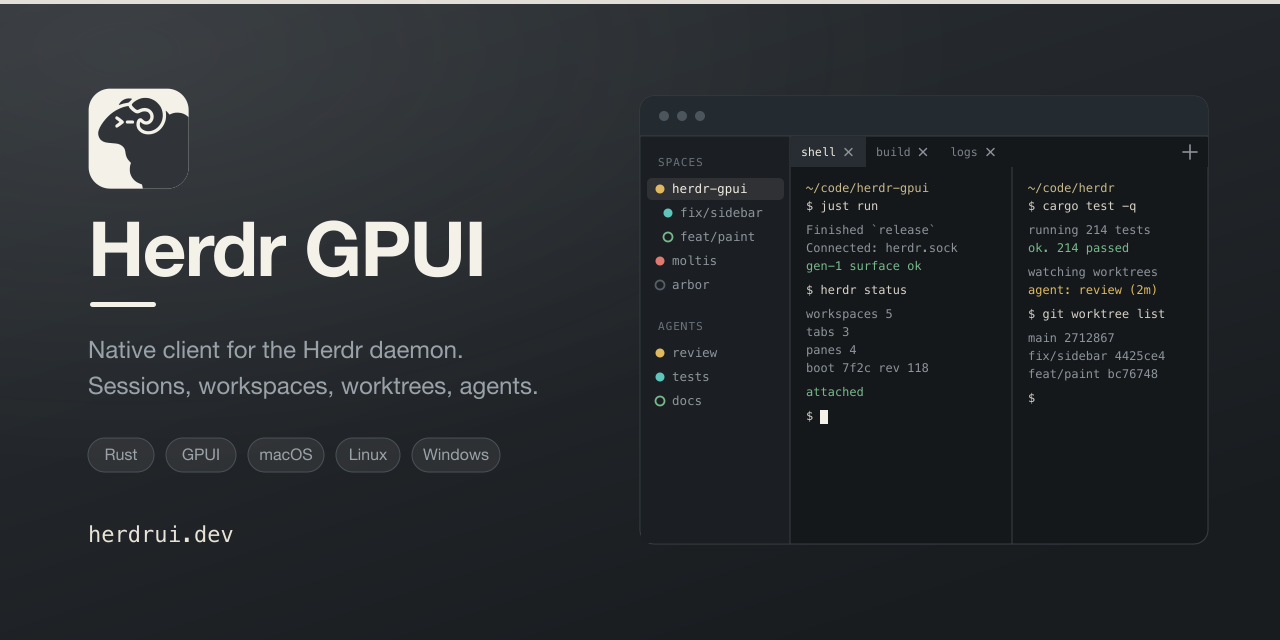
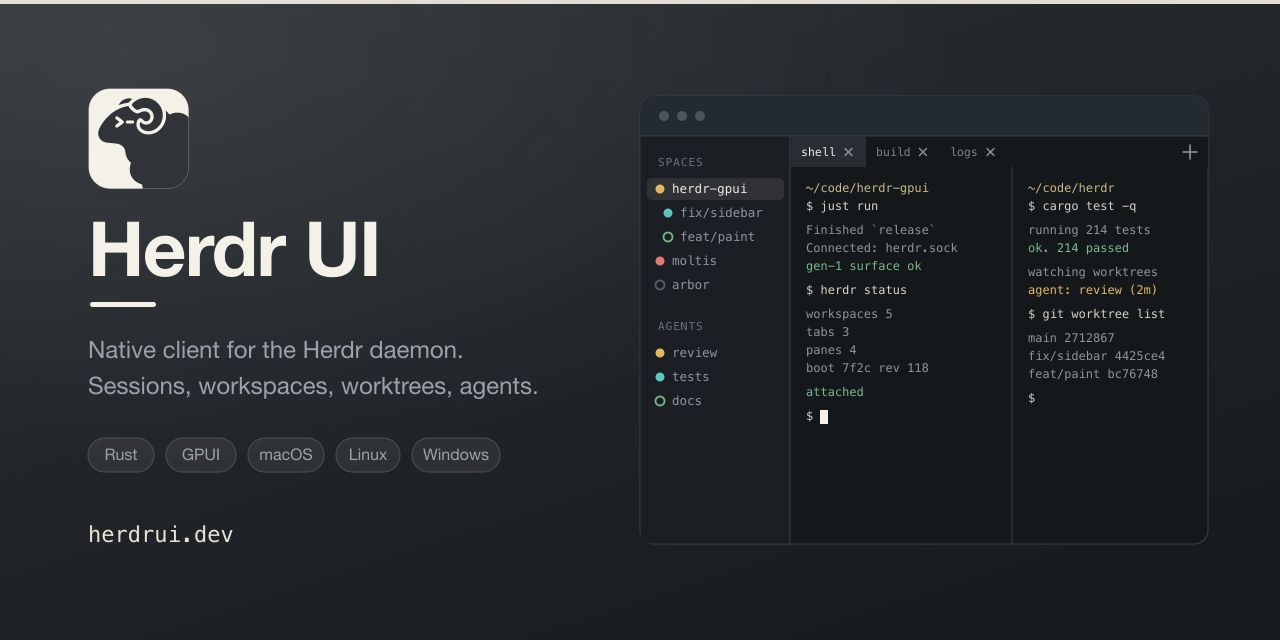
feat(site): rename the website and social previews to Herdr UI
The page title, Open Graph and X card tags, image alt text, headings,
body copy and footer now use Herdr UI. The three social preview SVGs
carry the new name and their PNGs are re-rendered at 1280x640 with
rsvg-convert; the dark one is copied to site/assets for the cards.

Changed region(s): [[0.2188, 0.3438, 0.375, 0.4375]]

diff --git a/site/index.html b/site/index.html
@@ -3,26 +3,26 @@
 <head>
 <meta charset="utf-8">
 <meta name="viewport" content="width=device-width, initial-scale=1">
-<title>Herdr GPUI: a native window for the Herdr daemon</title>
-<meta name="description" content="Herdr GPUI is a native client for the Herdr daemon you already run. Same daemon, same sessions: the window adds dispatch from issues, side-by-side review, checkpoints, Teleport and a Devices overview.">
+<title>Herdr UI: a native window for the Herdr daemon</title>
+<meta name="description" content="Herdr UI is a native client for the Herdr daemon you already run. Same daemon, same sessions: the window adds dispatch from issues, side-by-side review, checkpoints, Teleport and a Devices overview.">
 <link rel="canonical" href="https://herdrui.dev/">
 <link rel="icon" type="image/png" href="assets/herdr-ui-icon-badge.png">
 <meta name="theme-color" content="#17181b">
 <meta property="og:type" content="website">
-<meta property="og:title" content="Herdr GPUI: a native window for the Herdr daemon">
+<meta property="og:title" content="Herdr UI: a native window for the Herdr daemon">
 <meta property="og:description" content="Herdr's TUI is great. Here's what a window adds.">
 <meta property="og:url" content="https://herdrui.dev/">
-<meta property="og:site_name" content="Herdr GPUI">
+<meta property="og:site_name" content="Herdr UI">
 <meta property="og:image" content="https://herdrui.dev/assets/social-preview-dark.png">
 <meta property="og:image:type" content="image/png">
 <meta property="og:image:width" content="1280">
 <meta property="og:image:height" content="640">
-<meta property="og:image:alt" content="Herdr GPUI: native client for the Herdr daemon on macOS, Linux and Windows, beside a window with a workspace sidebar and terminal panes.">
+<meta property="og:image:alt" content="Herdr UI: native client for the Herdr daemon on macOS, Linux and Windows, beside a window with a workspace sidebar and terminal panes.">
 <meta name="twitter:card" content="summary_large_image">
-<meta name="twitter:title" content="Herdr GPUI: a native window for the Herdr daemon">
+<meta name="twitter:title" content="Herdr UI: a native window for the Herdr daemon">
 <meta name="twitter:description" content="Herdr's TUI is great. Here's what a window adds.">
 <meta name="twitter:image" content="https://herdrui.dev/assets/social-preview-dark.png">
-<meta name="twitter:image:alt" content="Herdr GPUI: native client for the Herdr daemon on macOS, Linux and Windows, beside a window with a workspace sidebar and terminal panes.">
+<meta name="twitter:image:alt" content="Herdr UI: native client for the Herdr daemon on macOS, Linux and Windows, beside a window with a workspace sidebar and terminal panes.">
 <link rel="stylesheet" href="assets/kit.css">
 <link rel="stylesheet" href="assets/site.css">
 <script src="assets/kit.js"></script>
@@ -31,7 +31,7 @@
 
 <div class="wrap">
   <nav>
-    <a class="brand" href="./"><img src="assets/herdr-ui-icon-badge.png" alt="">Herdr GPUI</a>
+    <a class="brand" href="./"><img src="assets/herdr-ui-icon-badge.png" alt="">Herdr UI</a>
     <a class="sec" href="#compare">Compare</a><a class="sec" href="#film" data-film-link hidden>Film</a><a class="sec" href="#shots" data-shots-link hidden>Screenshots</a><a class="sec" href="#install">Install</a>
     <a class="gh" href="https://github.com/penso/herdr-gpui"><svg class="mark" viewBox="0 0 24 24" aria-hidden="true"><path d="M12 0C5.37 0 0 5.37 0 12c0 5.31 3.435 9.795 8.205 11.385.6.105.825-.255.825-.57 0-.285-.015-1.23-.015-2.235-3.015.555-3.795-.735-4.035-1.41-.135-.345-.72-1.41-1.23-1.695-.42-.225-1.02-.78-.015-.795.945-.015 1.62.87 1.845 1.23 1.08 1.815 2.805 1.305 3.495.99.105-.78.42-1.305.765-1.605-2.67-.3-5.46-1.335-5.46-5.925 0-1.305.465-2.385 1.23-3.225-.12-.3-.54-1.53.12-3.18 0 0 1.005-.315 3.3 1.23.96-.27 1.98-.405 3-.405s2.04.135 3 .405c2.295-1.56 3.3-1.23 3.3-1.23.66 1.65.24 2.88.12 3.18.765.84 1.23 1.905 1.23 3.225 0 4.605-2.805 5.625-5.475 5.925.435.375.81 1.095.81 2.22 0 1.605-.015 2.895-.015 3.3 0 .315.225.69.825.57A12.02 12.02 0 0 0 24 12c0-6.63-5.37-12-12-12z"/></svg>GitHub<span class="stars" id="stars" hidden><svg viewBox="0 0 24 24" aria-hidden="true"><polygon points="12 2 15.09 8.26 22 9.27 17 14.14 18.18 21.02 12 17.77 5.82 21.02 7 14.14 2 9.27 8.91 8.26 12 2"/></svg><span id="stars-n"></span></span></a>
   </nav>
@@ -39,19 +39,19 @@
   <header class="hero">
     <span class="kicker"><i></i>Same daemon. Same sessions. Use both at once.</span>
     <h1>Herdr’s TUI is great.<br><span class="soft">Here’s what a window adds.</span></h1>
-    <p class="lede">Herdr GPUI is a native client for the Herdr daemon you already run. Your terminals and agents stay in the daemon; the window adds dispatch from issues, side-by-side review, checkpoints, Teleport and a Devices overview.</p>
+    <p class="lede">Herdr UI is a native client for the Herdr daemon you already run. Your terminals and agents stay in the daemon; the window adds dispatch from issues, side-by-side review, checkpoints, Teleport and a Devices overview.</p>
     <div class="hero-cta"><a class="btn pri" href="#install">Install</a><a class="btn" href="https://github.com/penso/herdr-gpui/releases">Releases</a></div>
   </header>
 
   <div class="compare-fit" id="cmp-fit">
-    <div class="compare" id="cmp" aria-label="Drag to compare the Herdr TUI with Herdr GPUI">
+    <div class="compare" id="cmp" aria-label="Drag to compare the Herdr TUI with Herdr UI">
       <div class="layer"><div class="tui"><pre id="tui" aria-hidden="true"></pre></div></div>
       <div class="layer gpui"><div data-hm-app="terminal" style="--h:420px"></div></div>
       <div class="handle" id="handle" role="slider" aria-label="Comparison position" aria-valuemin="0" aria-valuemax="100" aria-valuenow="50" tabindex="0"><span>‹›</span></div>
     </div>
   </div>
-  <div class="labels"><span><b>herdr</b> in any terminal, local or over SSH</span><span><b>Herdr GPUI</b> a native, GPU-painted window</span></div>
-  <div class="same"><span>herdr TUI</span><span class="ln"></span><span class="daemon mono">herdr server · owns PTYs, agents, sessions</span><span class="ln"></span><span>Herdr GPUI</span></div>
+  <div class="labels"><span><b>herdr</b> in any terminal, local or over SSH</span><span><b>Herdr UI</b> a native, GPU-painted window</span></div>
+  <div class="same"><span>herdr TUI</span><span class="ln"></span><span class="daemon mono">herdr server · owns PTYs, agents, sessions</span><span class="ln"></span><span>Herdr UI</span></div>
 
   <section id="film" hidden>
     <div class="sh"><div class="eyebrow">The film</div><h2>What the window does, in one take.</h2><p>From an issue to a merged change across two machines, while the TUI stays attached to the same session.</p></div>
@@ -73,12 +73,12 @@
       <div><h2>Keep the TUI. Add the window.</h2><p>Install the app next to the Herdr you already have. It attaches to your daemon and never installs or upgrades it.</p></div>
       <div><div class="cmd mono"><span><span class="p">$</span><span id="brew"></span></span><button type="button" id="copy">Copy</button></div>
         <div class="plat"><span id="plat"></span> · <a href="https://github.com/penso/herdr-gpui#install">all install options</a></div>
-        <div class="both-note">Then run <span class="mono">herdr</span> in a terminal and open Herdr GPUI: both show the same panes.</div></div>
+        <div class="both-note">Then run <span class="mono">herdr</span> in a terminal and open Herdr UI: both show the same panes.</div></div>
     </div>
   </section>
 </div>
 
-<footer><div class="wrap"><span>Herdr GPUI · Apache-2.0 · <a href="https://pen.so">Fabien Penso</a></span>
+<footer><div class="wrap"><span>Herdr UI · Apache-2.0 · <a href="https://pen.so">Fabien Penso</a></span>
   <span class="links"><a href="https://github.com/penso/herdr-gpui">GitHub</a><a href="https://github.com/penso/herdr-gpui/releases">Releases</a><a href="https://github.com/penso/herdr-gpui/blob/main/crates/herdr-gpui/README.md">Docs</a><a href="https://herdr.dev/">Herdr</a></span>
   <span class="disc" id="disc"></span></div></footer>
 

diff --git a/site/assets/site.js b/site/assets/site.js
@@ -1,4 +1,4 @@
-// Page behaviour for the Herdr GPUI site. Runs at the end of <body>, before
+// Page behaviour for the Herdr UI site. Runs at the end of <body>, before
 // kit.js mounts the [data-hm-app] renderings on DOMContentLoaded.
 (function () {
   // `?draft` shows placeholders for the film and screenshots that have not been
@@ -131,7 +131,7 @@ copy notes across by hand.</span>`, g: 'terminal' },
       <div><div class="eyebrow">${r.k}</div><h3>${r.t}</h3><p>${r.p}</p><span class="verdict ${r.v[0]}">${r.v[0] === 'only' ? '◐' : '●●'} ${r.v[1]}</span></div>
       <div><div class="side-lbl"><span>herdr TUI</span><span>${r.tl}</span></div>
         ${r.tui ? `<div class="mini-tui"><pre>${r.tui}</pre></div>` : `<div class="mini-tui empty"><b>—</b><div>${r.tl}.<br>The daemon keeps running the agents either way.</div></div>`}</div>
-      <div><div class="side-lbl"><span>Herdr GPUI</span><span>${r.v[0] === 'both' ? 'Same data' : 'Built in'}</span></div>
+      <div><div class="side-lbl"><span>Herdr UI</span><span>${r.v[0] === 'both' ? 'Same data' : 'Built in'}</span></div>
         <div class="mini-gpui" aria-hidden="true"><div class="scaler" data-fit-width="780" data-fit-max="0.5"><div data-hm-app="${r.g}" data-no-sidebar></div></div></div></div>
     </div>`).join('');
 

diff --git a/site/assets/kit.css b/site/assets/kit.css
@@ -1,4 +1,4 @@
-/* Shared mockup kit: a realistic Herdr GPUI window, video placeholder, shot tiles.
+/* Shared mockup kit: a realistic Herdr UI window, video placeholder, shot tiles.
    Pages theme the surroundings; the window itself follows data-theme. */
 .hm-app { --bg:#131518; --side:#191b1f; --fg:#d9dce1; --dim:#7a808a; --ln:rgba(255,255,255,.075); --sel:rgba(255,255,255,.07); --acc:#3dd6d0; --card:#1b1e23;
   background:var(--bg); color:var(--fg); border-radius:12px; overflow:hidden; font:12px/1.45 -apple-system, BlinkMacSystemFont, "Inter", sans-serif;
